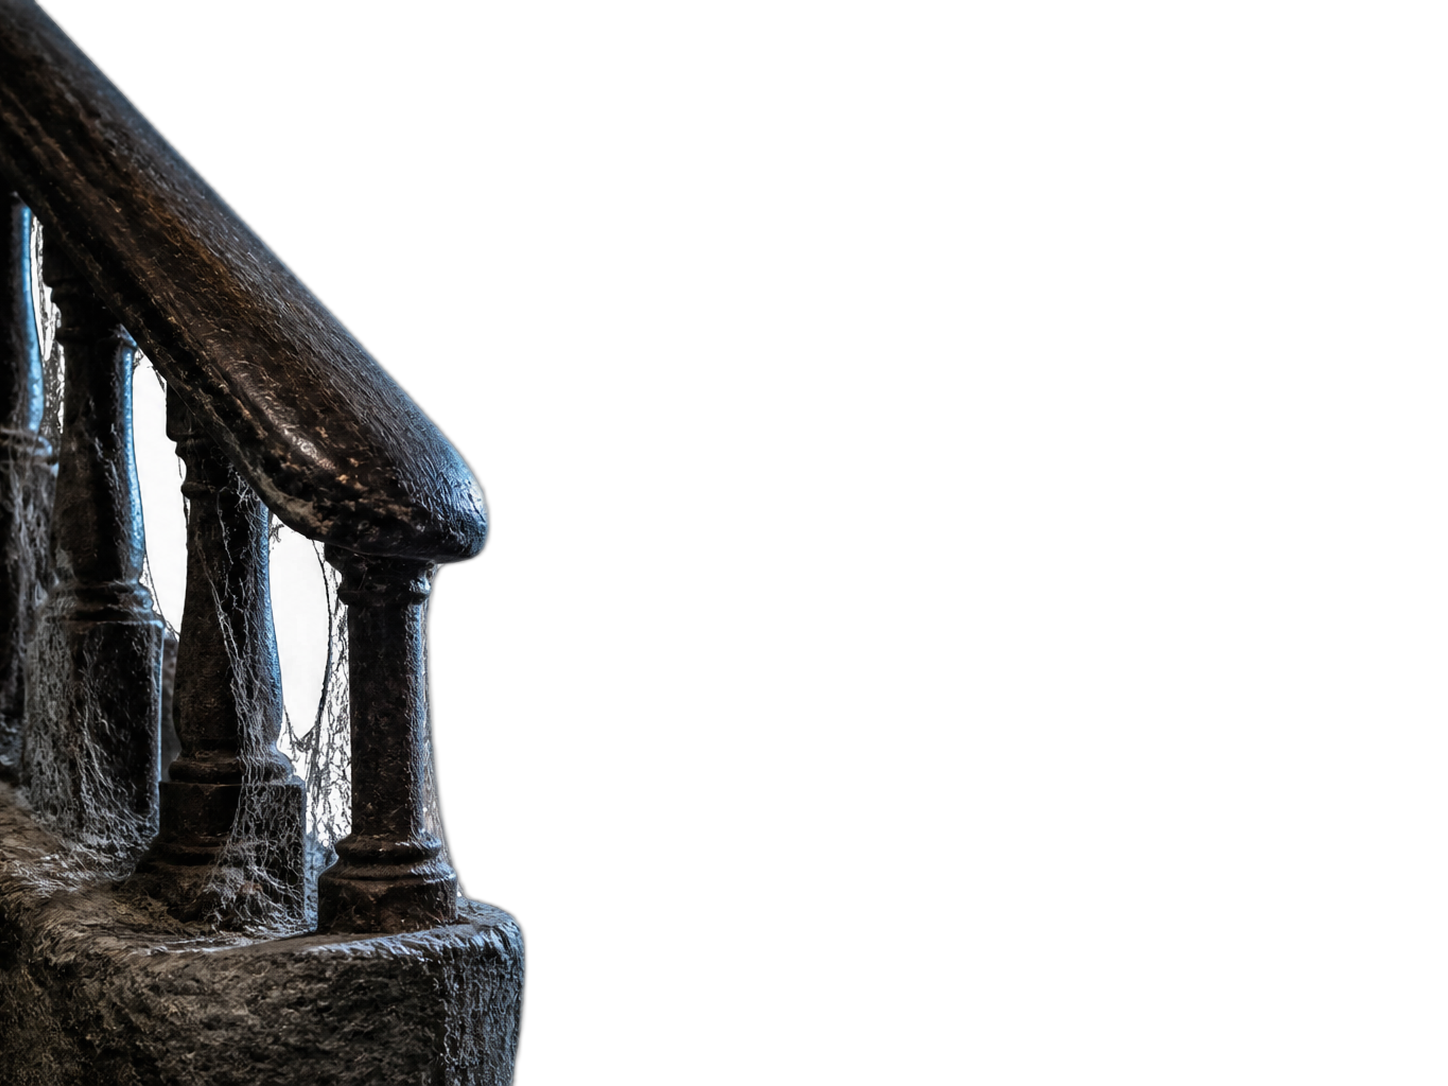
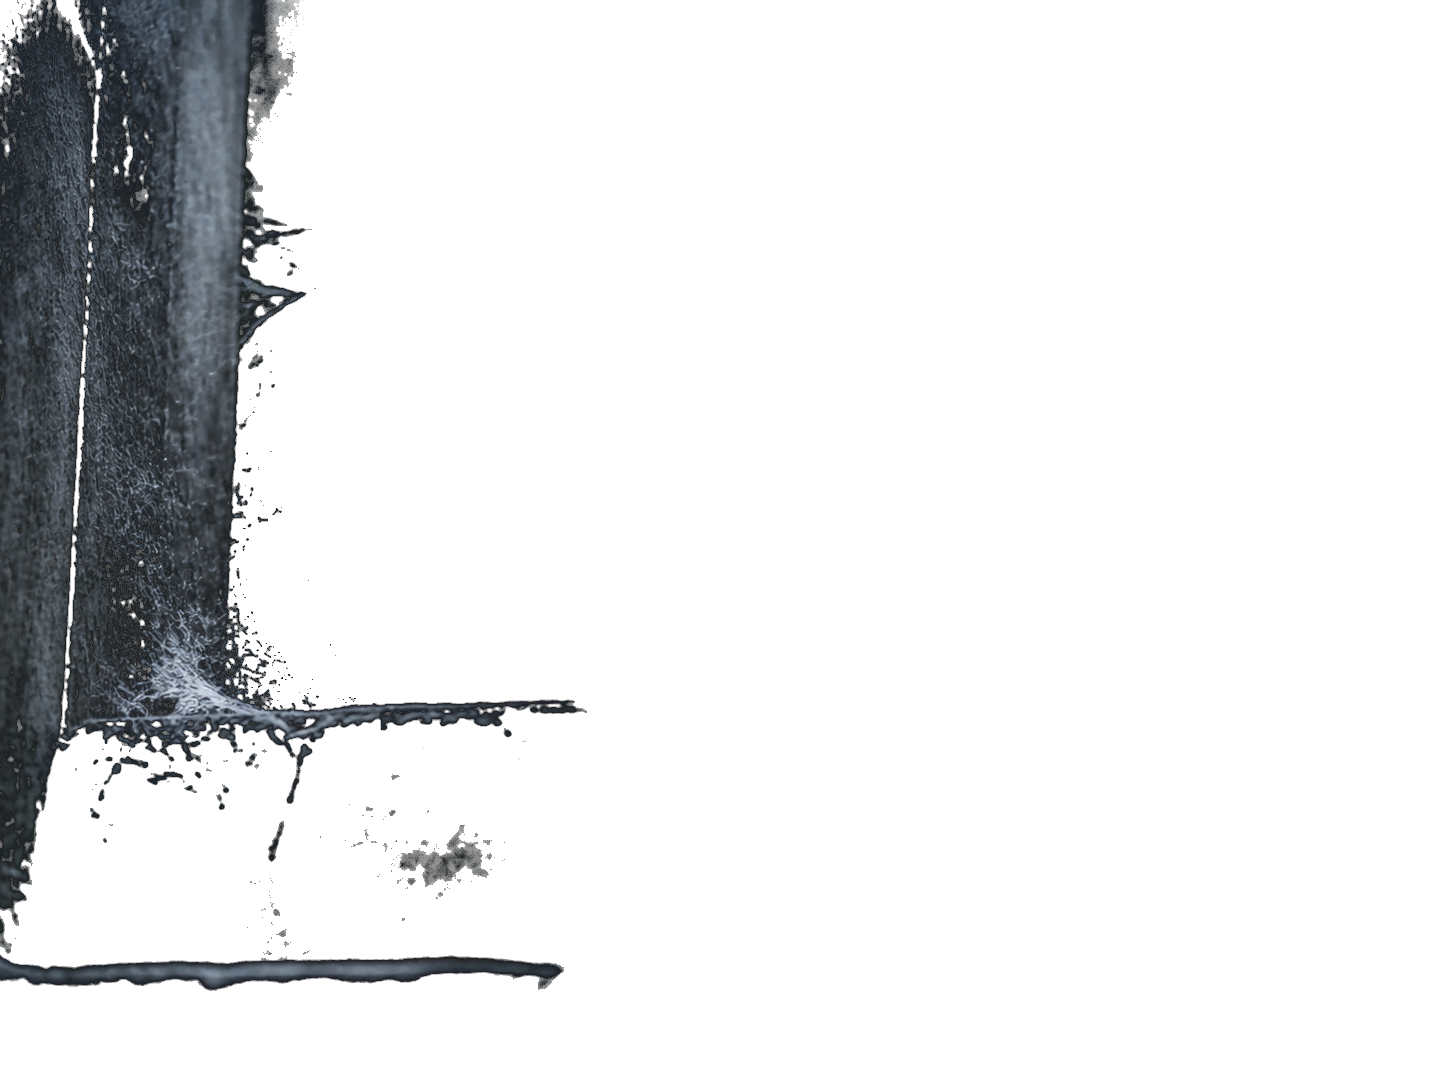
Update soundscape foreground images with versioning and add unoptimized attribute to PhotoSceneArtwork component

Changed region(s): [[0.0, 0.0, 0.404, 1.0]]

diff --git a/lib/constants.ts b/lib/constants.ts
@@ -424,21 +424,21 @@ export const SOUNDSCAPE_SCENES = [
     title: "Dusty Photo Frame",
     category: "Literary fiction",
     image: "/images/soundscape-literary-environment.png",
-    foreground: "/images/soundscape-literary-foreground.png",
+    foreground: "/images/soundscape-literary-foreground.png?v=20260801",
   },
   {
     id: "romance",
     title: "Amber Drift",
     category: "Romance",
     image: "/images/soundscape-romance-environment.png",
-    foreground: "/images/soundscape-romance-foreground.png",
+    foreground: "/images/soundscape-romance-foreground.png?v=20260801",
   },
   {
     id: "horror",
     title: "Basement Door Ajar",
     category: "Horror",
     image: "/images/soundscape-horror.png",
-    foreground: "/images/soundscape-horror-foreground.png",
+    foreground: "/images/soundscape-horror-foreground.png?v=20260801",
   },
   {
     id: "non-binaural",

diff --git a/components/sections/soundscapes.tsx b/components/sections/soundscapes.tsx
@@ -223,6 +223,7 @@ function PhotoSceneArtwork({
         alt=""
         fill
         priority={priority}
+        unoptimized
         sizes="100vw"
         className="soundscape-photo-foreground object-cover blur-[1.25px]"
         data-scene-foreground
